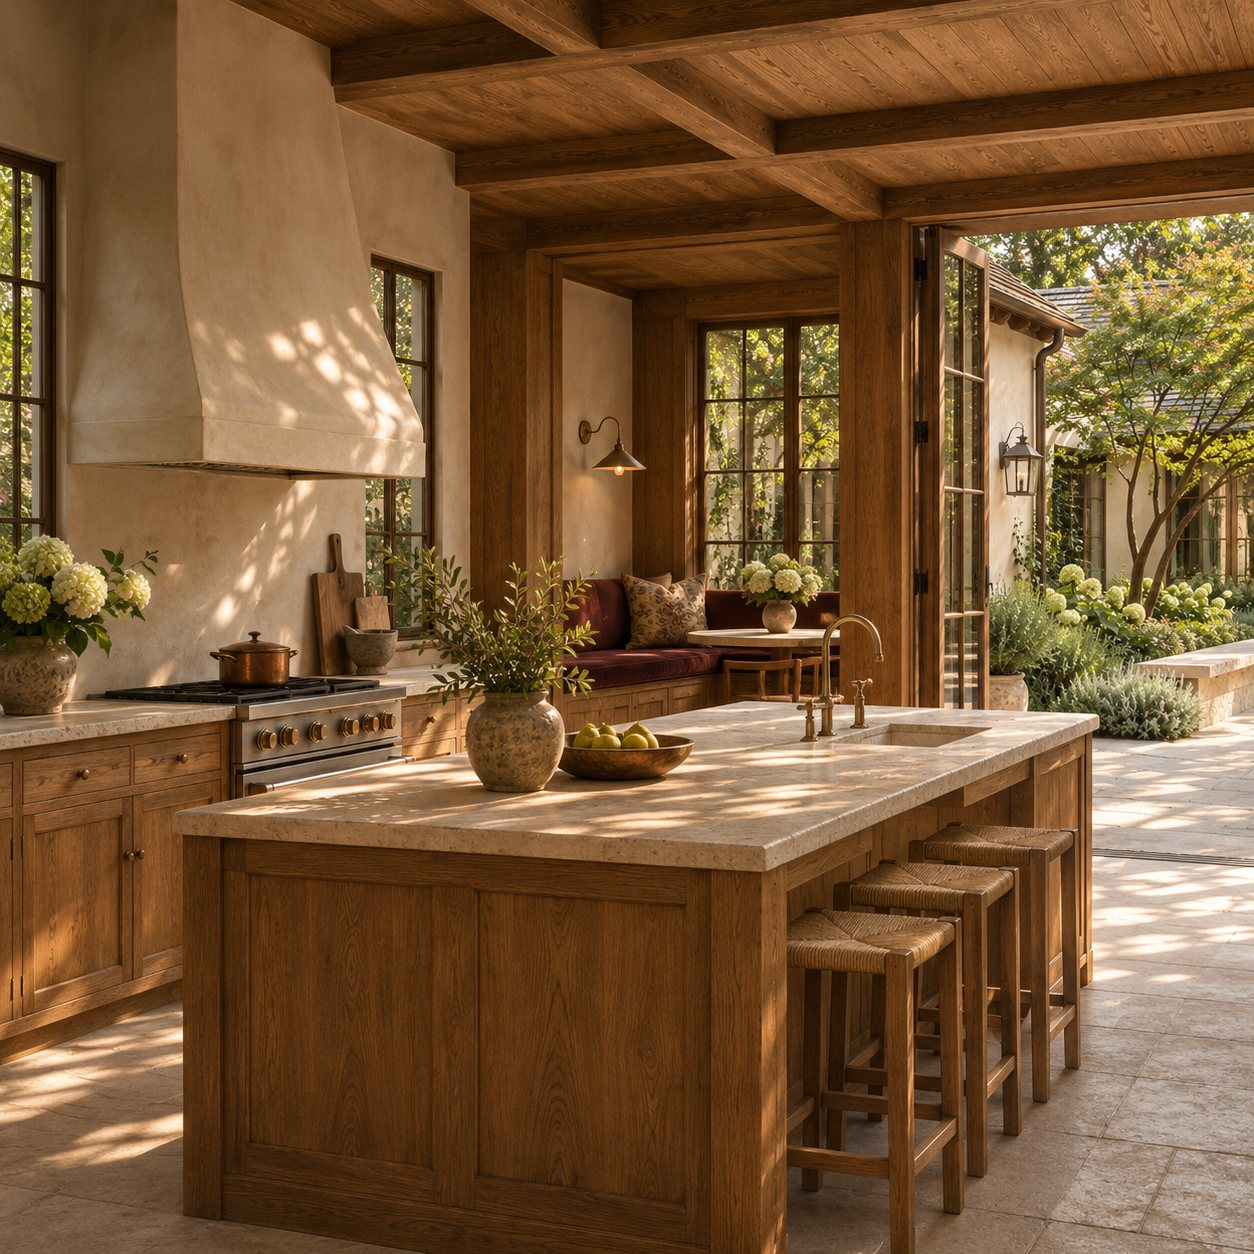
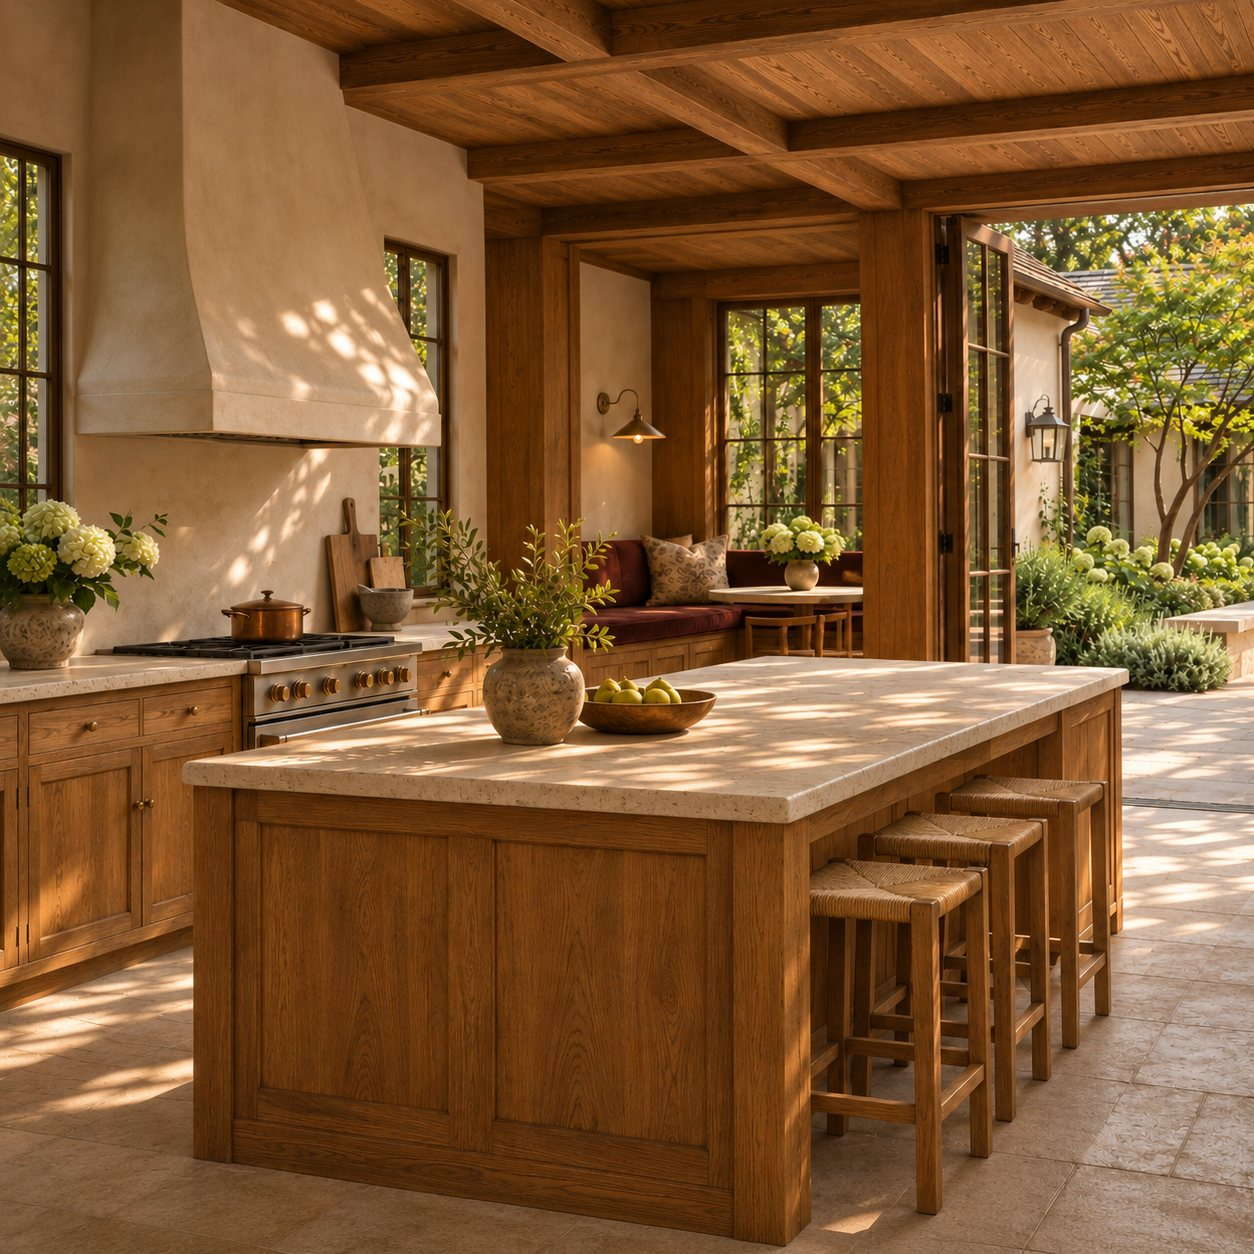
Homepage: sink-free version of the oak kitchen photo
Claude-Session: https://claude.ai/code/session_0181jGCinWaJNasLe3Hdm7H1

diff --git a/blog-healthy-renovations-without-sacrificing-style.html b/blog-healthy-renovations-without-sacrificing-style.html
@@ -12,7 +12,7 @@
 <meta property="og:image" content="https://gableandgracebuilds.com/Gable_and_grace_logo_transparent.png">
 <link rel="preconnect" href="https://fonts.googleapis.com">
 <link href="https://fonts.googleapis.com/css2?family=Cormorant+Garamond:ital,wght@0,400;0,500;0,600;1,500&family=Jost:wght@300;400;500;600&display=swap" rel="stylesheet">
-<link rel="stylesheet" href="styles.css?v=22">
+<link rel="stylesheet" href="styles.css?v=23">
 <script type="application/ld+json">{"@context": "https://schema.org", "@type": "BlogPosting", "headline": "Healthy Renovations Without Sacrificing Style", "description": "How to make a remodel healthier without compromising on design: material choices, dust control, sequencing and where to focus your budget.", "author": {"@type": "Organization", "name": "Gable & Grace"}, "publisher": {"@type": "Organization", "name": "Gable & Grace", "logo": {"@type": "ImageObject", "url": "https://gableandgracebuilds.com/Gable_and_grace_logo_transparent.png"}}, "mainEntityOfPage": "https://gableandgracebuilds.com/blog-healthy-renovations-without-sacrificing-style"}</script>
 </head>
 <body>

diff --git a/blog-preventing-mold-during-construction.html b/blog-preventing-mold-during-construction.html
@@ -12,7 +12,7 @@
 <meta property="og:image" content="https://gableandgracebuilds.com/Gable_and_grace_logo_transparent.png">
 <link rel="preconnect" href="https://fonts.googleapis.com">
 <link href="https://fonts.googleapis.com/css2?family=Cormorant+Garamond:ital,wght@0,400;0,500;0,600;1,500&family=Jost:wght@300;400;500;600&display=swap" rel="stylesheet">
-<link rel="stylesheet" href="styles.css?v=22">
+<link rel="stylesheet" href="styles.css?v=23">
 <script type="application/ld+json">{"@context": "https://schema.org", "@type": "BlogPosting", "headline": "Preventing Mold During Construction", "description": "Mold problems often start before move-in. How to keep framing and materials dry during construction and verify moisture before walls are closed.", "author": {"@type": "Organization", "name": "Gable & Grace"}, "publisher": {"@type": "Organization", "name": "Gable & Grace", "logo": {"@type": "ImageObject", "url": "https://gableandgracebuilds.com/Gable_and_grace_logo_transparent.png"}}, "mainEntityOfPage": "https://gableandgracebuilds.com/blog-preventing-mold-during-construction"}</script>
 </head>
 <body>

diff --git a/blog-whole-home-water-filtration.html b/blog-whole-home-water-filtration.html
@@ -12,7 +12,7 @@
 <meta property="og:image" content="https://gableandgracebuilds.com/Gable_and_grace_logo_transparent.png">
 <link rel="preconnect" href="https://fonts.googleapis.com">
 <link href="https://fonts.googleapis.com/css2?family=Cormorant+Garamond:ital,wght@0,400;0,500;0,600;1,500&family=Jost:wght@300;400;500;600&display=swap" rel="stylesheet">
-<link rel="stylesheet" href="styles.css?v=22">
+<link rel="stylesheet" href="styles.css?v=23">
 <script type="application/ld+json">{"@context": "https://schema.org", "@type": "BlogPosting", "headline": "Whole-Home Water Filtration", "description": "How to choose whole-home and point-of-use water filtration: start with a water test, then match carbon, sediment, softening and reverse osmosis to the results.", "author": {"@type": "Organization", "name": "Gable & Grace"}, "publisher": {"@type": "Organization", "name": "Gable & Grace", "logo": {"@type": "ImageObject", "url": "https://gableandgracebuilds.com/Gable_and_grace_logo_transparent.png"}}, "mainEntityOfPage": "https://gableandgracebuilds.com/blog-whole-home-water-filtration"}</script>
 </head>
 <body>

diff --git a/blog-building-for-raleighs-humidity.html b/blog-building-for-raleighs-humidity.html
@@ -12,7 +12,7 @@
 <meta property="og:image" content="https://gableandgracebuilds.com/Gable_and_grace_logo_transparent.png">
 <link rel="preconnect" href="https://fonts.googleapis.com">
 <link href="https://fonts.googleapis.com/css2?family=Cormorant+Garamond:ital,wght@0,400;0,500;0,600;1,500&family=Jost:wght@300;400;500;600&display=swap" rel="stylesheet">
-<link rel="stylesheet" href="styles.css?v=22">
+<link rel="stylesheet" href="styles.css?v=23">
 <script type="application/ld+json">{"@context": "https://schema.org", "@type": "BlogPosting", "headline": "Building for Raleigh's Humidity", "description": "Raleigh's hot, humid summers shape how a healthy home should be built: vapor control, dehumidification, HVAC sizing, crawlspaces and ventilation.", "author": {"@type": "Organization", "name": "Gable & Grace"}, "publisher": {"@type": "Organization", "name": "Gable & Grace", "logo": {"@type": "ImageObject", "url": "https://gableandgracebuilds.com/Gable_and_grace_logo_transparent.png"}}, "mainEntityOfPage": "https://gableandgracebuilds.com/blog-building-for-raleighs-humidity"}</script>
 </head>
 <body>

diff --git a/blog-low-voc-and-natural-finishes.html b/blog-low-voc-and-natural-finishes.html
@@ -12,7 +12,7 @@
 <meta property="og:image" content="https://gableandgracebuilds.com/Gable_and_grace_logo_transparent.png">
 <link rel="preconnect" href="https://fonts.googleapis.com">
 <link href="https://fonts.googleapis.com/css2?family=Cormorant+Garamond:ital,wght@0,400;0,500;0,600;1,500&family=Jost:wght@300;400;500;600&display=swap" rel="stylesheet">
-<link rel="stylesheet" href="styles.css?v=22">
+<link rel="stylesheet" href="styles.css?v=23">
 <script type="application/ld+json">{"@context": "https://schema.org", "@type": "BlogPosting", "headline": "Low-VOC and Natural Finishes", "description": "How to choose paints, stains, sealants and surfaces that release fewer chemicals, and what labels like zero-VOC and GREENGUARD Gold actually mean.", "author": {"@type": "Organization", "name": "Gable & Grace"}, "publisher": {"@type": "Organization", "name": "Gable & Grace", "logo": {"@type": "ImageObject", "url": "https://gableandgracebuilds.com/Gable_and_grace_logo_transparent.png"}}, "mainEntityOfPage": "https://gableandgracebuilds.com/blog-low-voc-and-natural-finishes"}</script>
 </head>
 <body>

diff --git a/blog-what-makes-a-home-healthy.html b/blog-what-makes-a-home-healthy.html
@@ -12,7 +12,7 @@
 <meta property="og:image" content="https://gableandgracebuilds.com/Gable_and_grace_logo_transparent.png">
 <link rel="preconnect" href="https://fonts.googleapis.com">
 <link href="https://fonts.googleapis.com/css2?family=Cormorant+Garamond:ital,wght@0,400;0,500;0,600;1,500&family=Jost:wght@300;400;500;600&display=swap" rel="stylesheet">
-<link rel="stylesheet" href="styles.css?v=22">
+<link rel="stylesheet" href="styles.css?v=23">
 <script type="application/ld+json">{"@context": "https://schema.org", "@type": "BlogPosting", "headline": "What Makes a Home Healthy?", "description": "The five things that make a home healthier to live in: air, moisture, water, materials and light, and how to prioritize them in a new build or remodel.", "author": {"@type": "Organization", "name": "Gable & Grace"}, "publisher": {"@type": "Organization", "name": "Gable & Grace", "logo": {"@type": "ImageObject", "url": "https://gableandgracebuilds.com/Gable_and_grace_logo_transparent.png"}}, "mainEntityOfPage": "https://gableandgracebuilds.com/blog-what-makes-a-home-healthy"}</script>
 </head>
 <body>

diff --git a/blog-wool-vs-fiberglass-insulation.html b/blog-wool-vs-fiberglass-insulation.html
@@ -12,7 +12,7 @@
 <meta property="og:image" content="https://gableandgracebuilds.com/Gable_and_grace_logo_transparent.png">
 <link rel="preconnect" href="https://fonts.googleapis.com">
 <link href="https://fonts.googleapis.com/css2?family=Cormorant+Garamond:ital,wght@0,400;0,500;0,600;1,500&family=Jost:wght@300;400;500;600&display=swap" rel="stylesheet">
-<link rel="stylesheet" href="styles.css?v=22">
+<link rel="stylesheet" href="styles.css?v=23">
 <script type="application/ld+json">{"@context": "https://schema.org", "@type": "BlogPosting", "headline": "Wool vs. Fiberglass Insulation", "description": "How sheep's wool insulation compares with fiberglass on health, moisture handling, thermal performance and cost, and when each makes sense.", "author": {"@type": "Organization", "name": "Gable & Grace"}, "publisher": {"@type": "Organization", "name": "Gable & Grace", "logo": {"@type": "ImageObject", "url": "https://gableandgracebuilds.com/Gable_and_grace_logo_transparent.png"}}, "mainEntityOfPage": "https://gableandgracebuilds.com/blog-wool-vs-fiberglass-insulation"}</script>
 </head>
 <body>

diff --git a/blog-low-emf-home-planning.html b/blog-low-emf-home-planning.html
@@ -12,7 +12,7 @@
 <meta property="og:image" content="https://gableandgracebuilds.com/Gable_and_grace_logo_transparent.png">
 <link rel="preconnect" href="https://fonts.googleapis.com">
 <link href="https://fonts.googleapis.com/css2?family=Cormorant+Garamond:ital,wght@0,400;0,500;0,600;1,500&family=Jost:wght@300;400;500;600&display=swap" rel="stylesheet">
-<link rel="stylesheet" href="styles.css?v=22">
+<link rel="stylesheet" href="styles.css?v=23">
 <script type="application/ld+json">{"@context": "https://schema.org", "@type": "BlogPosting", "headline": "Low-EMF Home Planning", "description": "Practical ways to reduce wireless and electrical field exposure at home: hardwired internet, Wi-Fi switches, wiring layout and bedroom planning.", "author": {"@type": "Organization", "name": "Gable & Grace"}, "publisher": {"@type": "Organization", "name": "Gable & Grace", "logo": {"@type": "ImageObject", "url": "https://gableandgracebuilds.com/Gable_and_grace_logo_transparent.png"}}, "mainEntityOfPage": "https://gableandgracebuilds.com/blog-low-emf-home-planning"}</script>
 </head>
 <body>

diff --git a/blog-designing-a-home-sauna.html b/blog-designing-a-home-sauna.html
@@ -12,7 +12,7 @@
 <meta property="og:image" content="https://gableandgracebuilds.com/Gable_and_grace_logo_transparent.png">
 <link rel="preconnect" href="https://fonts.googleapis.com">
 <link href="https://fonts.googleapis.com/css2?family=Cormorant+Garamond:ital,wght@0,400;0,500;0,600;1,500&family=Jost:wght@300;400;500;600&display=swap" rel="stylesheet">
-<link rel="stylesheet" href="styles.css?v=22">
+<link rel="stylesheet" href="styles.css?v=23">
 <script type="application/ld+json">{"@context": "https://schema.org", "@type": "BlogPosting", "headline": "Designing a Home Sauna", "description": "Traditional vs. infrared saunas, where to put one, wood choices, ventilation, electrical needs and design details for a home sauna.", "author": {"@type": "Organization", "name": "Gable & Grace"}, "publisher": {"@type": "Organization", "name": "Gable & Grace", "logo": {"@type": "ImageObject", "url": "https://gableandgracebuilds.com/Gable_and_grace_logo_transparent.png"}}, "mainEntityOfPage": "https://gableandgracebuilds.com/blog-designing-a-home-sauna"}</script>
 </head>
 <body>

diff --git a/blog-copper-vs-pex-plumbing.html b/blog-copper-vs-pex-plumbing.html
@@ -12,7 +12,7 @@
 <meta property="og:image" content="https://gableandgracebuilds.com/Gable_and_grace_logo_transparent.png">
 <link rel="preconnect" href="https://fonts.googleapis.com">
 <link href="https://fonts.googleapis.com/css2?family=Cormorant+Garamond:ital,wght@0,400;0,500;0,600;1,500&family=Jost:wght@300;400;500;600&display=swap" rel="stylesheet">
-<link rel="stylesheet" href="styles.css?v=22">
+<link rel="stylesheet" href="styles.css?v=23">
 <script type="application/ld+json">{"@context": "https://schema.org", "@type": "BlogPosting", "headline": "Copper vs. PEX Plumbing", "description": "A balanced look at copper and PEX water lines: health considerations, durability, water chemistry, cost and installation.", "author": {"@type": "Organization", "name": "Gable & Grace"}, "publisher": {"@type": "Organization", "name": "Gable & Grace", "logo": {"@type": "ImageObject", "url": "https://gableandgracebuilds.com/Gable_and_grace_logo_transparent.png"}}, "mainEntityOfPage": "https://gableandgracebuilds.com/blog-copper-vs-pex-plumbing"}</script>
 </head>
 <body>

diff --git a/healthy-homes.html b/healthy-homes.html
@@ -7,7 +7,7 @@
 <meta name="description" content="Beyond beautiful, built well. Explore copper plumbing, wool insulation, low-VOC finishes, balanced ventilation, and more healthy-home materials from Gable & Grace.">
 <link rel="preconnect" href="https://fonts.googleapis.com">
 <link href="https://fonts.googleapis.com/css2?family=Cormorant+Garamond:ital,wght@0,400;0,500;0,600;1,500&family=Jost:wght@300;400;500;600&display=swap" rel="stylesheet">
-<link rel="stylesheet" href="styles.css?v=22">
+<link rel="stylesheet" href="styles.css?v=23">
 </head>
 <body>
 

diff --git a/custom-homes.html b/custom-homes.html
@@ -7,7 +7,7 @@
 <meta name="description" content="Beautiful from the foundation up. Architecturally inspired custom homes designed around your family, lifestyle, land, and long-term well-being in Raleigh, NC.">
 <link rel="preconnect" href="https://fonts.googleapis.com">
 <link href="https://fonts.googleapis.com/css2?family=Cormorant+Garamond:ital,wght@0,400;0,500;0,600;1,500&family=Jost:wght@300;400;500;600&display=swap" rel="stylesheet">
-<link rel="stylesheet" href="styles.css?v=22">
+<link rel="stylesheet" href="styles.css?v=23">
 </head>
 <body>
 
